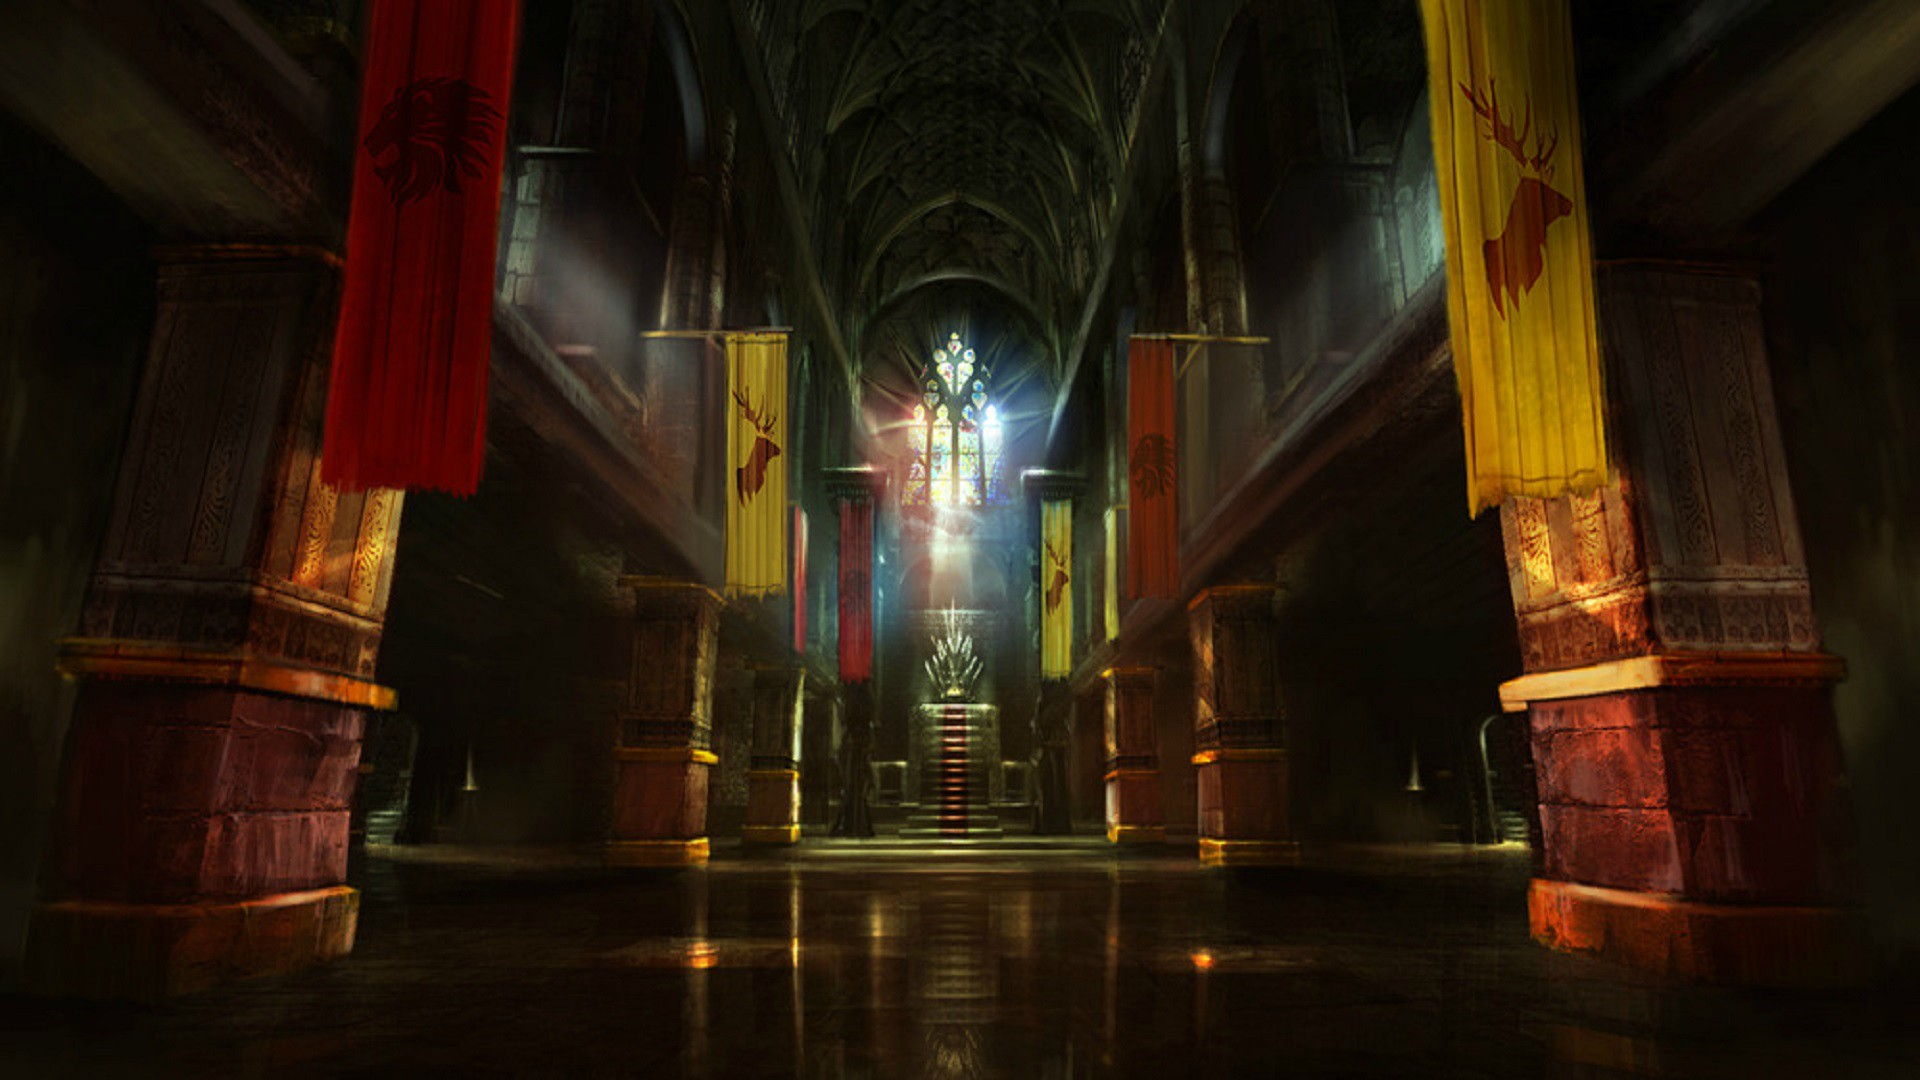
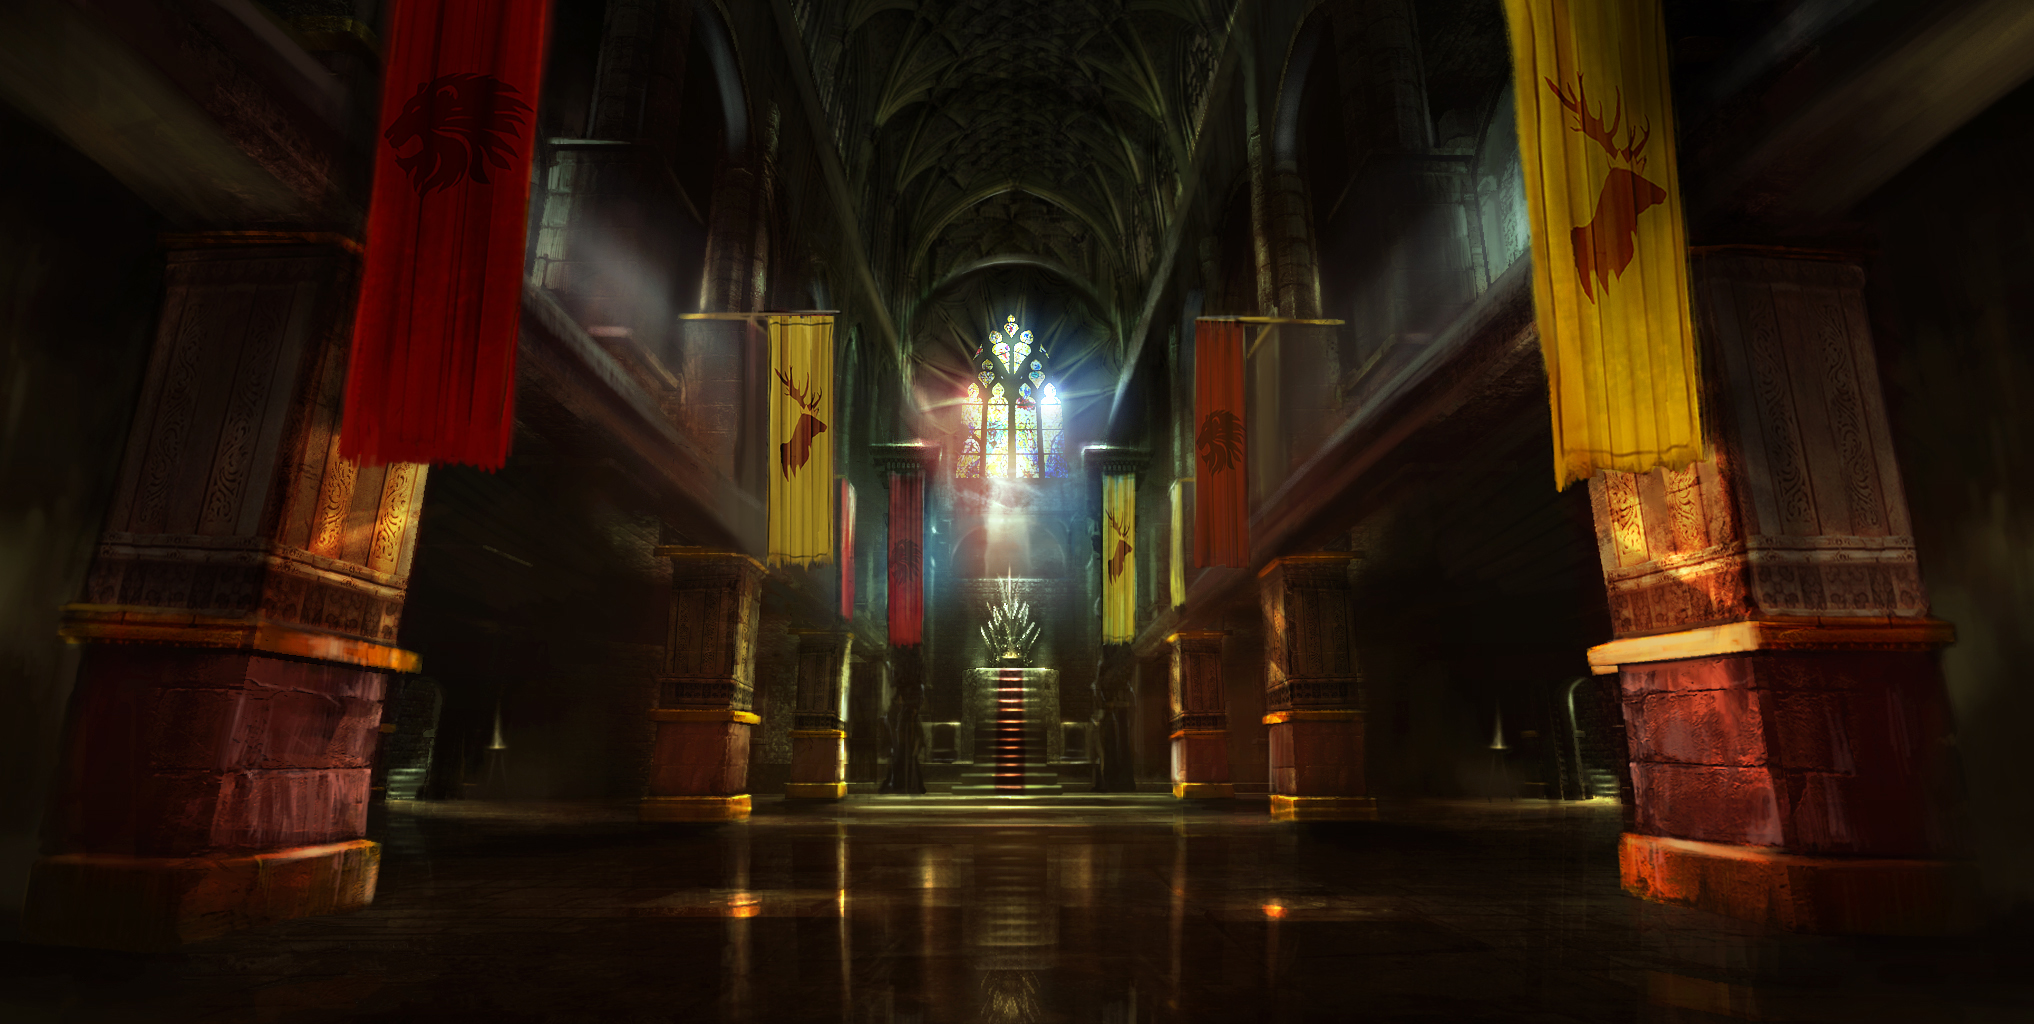
Future self, please forgive me and don't hit me with the baseball bat again!

diff --git a/public/css/steve-jobs.css b/public/css/steve-jobs.css
@@ -1,5 +1,3 @@
-/* Steve jobs' book */
-
 @font-face {
   font-family: 'Stempel-Garamond-W01-Roman';
   font-style: normal;
@@ -168,7 +166,7 @@ body, ul, table, form{
 .sj-book .p111, 
 .sj-book .p112{
 	background-color:white;
-	background-image:url(../pics/book-covers.jpg) !important;
+	background-image:url(../images/book-covers.jpg) !important;
 }
 
 .sj-book .p1{
@@ -209,7 +207,7 @@ body, ul, table, form{
 }
 
 .sj-book .depth{
-	background-image:url(../pics/pages-depth.png);
+	background-image:url(../images/pages-depth.png);
 	position:absolute;
 	top:7px;
 	width:16px;
@@ -286,7 +284,7 @@ body, ul, table, form{
 }
 
 .sj-book .loader{
-	background-image:url(../pics/loader.gif);
+	background-image:url(../images/loader.gif);
 	width:22px;
 	height:22px;
 	position:absolute;
@@ -361,14 +359,14 @@ body, ul, table, form{
 
 .ie8 .sj-book .even,
 .ie9 .sj-book .even{
-	background-image:url(../pics/gradient-page-left.jpg);
+	background-image:url(../images/gradient-page-left.jpg);
 	background-position:right top;
 	background-repeat:repeat-y;
 }
 
 .ie8 .sj-book .odd,
 .ie9 .sj-book .odd{
-	background-image:url(../pics/gradient-page-right.jpg);
+	background-image:url(../images/gradient-page-right.jpg);
 	background-position:left top;
 	background-repeat:repeat-y;
 }

diff --git a/public/css/default.css b/public/css/default.css
@@ -5,9 +5,38 @@ html {
 }
 
 body {
+    position: fixed;
     background-color: #e9eaed;
     word-wrap: break-word;
     margin: 0 0 50px ;
+    width : 100%;
+    height : 100%;
+    display: block;
+}
+
+.navbar {
+    margin-bottom: 0;
+    height: 2em;
+}
+
+#content {
+    position: relative;
+    min-height: 100%;
+    min-width: 100%;
+}
+
+footer {
+    background-color: #c1c1c1;
+    position: absolute;
+    left: 0;
+    bottom: 0;
+    height: 60px;
+    width: 100%;
+    text-align: center;
+    margin-left: auto;
+    margin-right: auto;
+    padding-top: 15px;
+    z-index: 100;
 }
 
 #lightbox .modal-content {
@@ -27,22 +56,4 @@ body {
     right: -55px;
 
     z-index: 1032;
-}
-
-footer {
-    background-color: #c1c1c1;
-    position: absolute;
-    left: 0;
-    bottom: 0;
-    height: 60px;
-    width: 100%;
-    text-align: center;
-    margin-left: auto;
-    margin-right: auto;
-    padding-top: 15px;
-}
-
-.navbar {
-    margin-bottom: 0;
-    height: 7%;
 }

diff --git a/public/js/book-ajax.js b/public/js/book-ajax.js
@@ -19,12 +19,12 @@ function updateDepth(book, newPage) {
     depthWidth = 16*Math.min(1, (pages-page)*2/pages);
 
     if (newPage<pages-3)
-        $('.sj-book .p111 .depth').css({
+        $('.sj-book .pBeforeLast .depth').css({
             width: depthWidth,
             right: 20 - depthWidth
         });
     else
-        $('.sj-book .p111 .depth').css({width: 0});
+        $('.sj-book .pBeforeLast .depth').css({width: 0});
 
 }
 

diff --git a/public/js/3d/BANA.LIB.js b/public/js/3d/BANA.LIB.js
@@ -33,7 +33,7 @@ BANA.GFX = function(near, far){
     //renderer.shadowMapEnabled= true;
     //renderer.shadowMapSoft = true;
 
-    document.body.appendChild( renderer.domElement );
+    $('#content').append( renderer.domElement );
     //CAMERA Setup
     camera = new THREE.PerspectiveCamera( 60, window.innerWidth / window.innerHeight, near, far );
     camera.position.set( 0, 100, 2000 );

diff --git a/public/js/turnjs/turn.js b/public/js/turnjs/turn.js
@@ -71,7 +71,7 @@ var has3d,
 
     // Display
 
-    display: 'double',
+    display: 'single',
 
     // Duration of transition in milliseconds
 
@@ -87,7 +87,7 @@ var has3d,
 
     // Corners used when turning the page
 
-    turnCorners: 'bl,br',
+    turnCorners: 'bl,br,l,r',
 
     // Events
 

diff --git a/includes/controllers/en.php b/includes/controllers/en.php
@@ -31,28 +31,31 @@ class en extends Controller
 
     public function robot(){
         $this->view->book = 'robot';
-        $this->view->render('vanier/index');
+        $this->view->render('book/index');
     }
 
     public function game(){
-        $this->view->render('game/index');
+        $this->view->book = 'game';
+        $this->view->render('book/index');
     }
 
     public function vanier(){
         $this->view->book = 'vanier';
-        $this->view->render('vanier/index');
+        $this->view->render('book/index');
     }
 
-    public function journalism($subpage){
-        $this->view->render('journalism/index');
+    public function journalism($subpage = 'index'){
+        $this->view->render('journalism/'.$subpage);
     }
 
     public function team(){
-        $this->view->render('team/index');
+        $this->view->book = 'robot';
+        $this->view->render('book/index');
     }
 
     public function gallery(){
-        $this->view->render('gallery/index');
+        $this->view->book = 'gallery';
+        $this->view->render('book/index');
     }
 
     public function tutorial(){

diff --git a/includes/models/Book.php b/includes/models/Book.php
@@ -19,8 +19,12 @@ class _Book extends Model
     }
 
     //FOR FLIPBOOK... Github has a feature called blame, I will find you if you change this.
-    public function getTotalPages($language,$book){
-        $st = $this->db->select('SELECT pageid FROM book WHERE lang = :lang AND book = :book', [':lang' => $language,':book' => $book]);
+    public function getTotalPages($language,$book,$subpage = null){
+        $pass = [':lang' => $language,':book' => $book];
+        //is_null($subpage) ? :$pass[] = [':subpage' => $subpage];
+        $st = $this->db->select('SELECT pageid FROM book
+                                  WHERE lang = :lang AND book = :book',$pass);
+                                    //. (is_null($subpage) ? :' AND subpage = :subpage'),$pass);
         return count($st);
     }
 

diff --git a/includes/views/home/index.php b/includes/views/home/index.php
@@ -2,16 +2,14 @@
 <script type="text/javascript">		//$(function() { $("#wallpaper").parallax(); });</script>
 
 <style>
-    body
-    {
+    .scene {
+        position: fixed;
         width : 100%;
         height : 100%;
-        display: block;
         background-image : url("<?=URL?>images/home/got.jpg");
         background-size: contain;
         background-repeat: round;
     }
-
 </style>
 
 <div class="scene">

diff --git a/includes/controllers/fr.php b/includes/controllers/fr.php
@@ -30,7 +30,8 @@ class fr extends Controller
     }
 
     public function vanier(){
-        $this->view->render('vanier/index');
+        $this->view->book = 'vanier';
+        $this->view->render('book/index');
     }
 
     public function journalisme($subpage){
